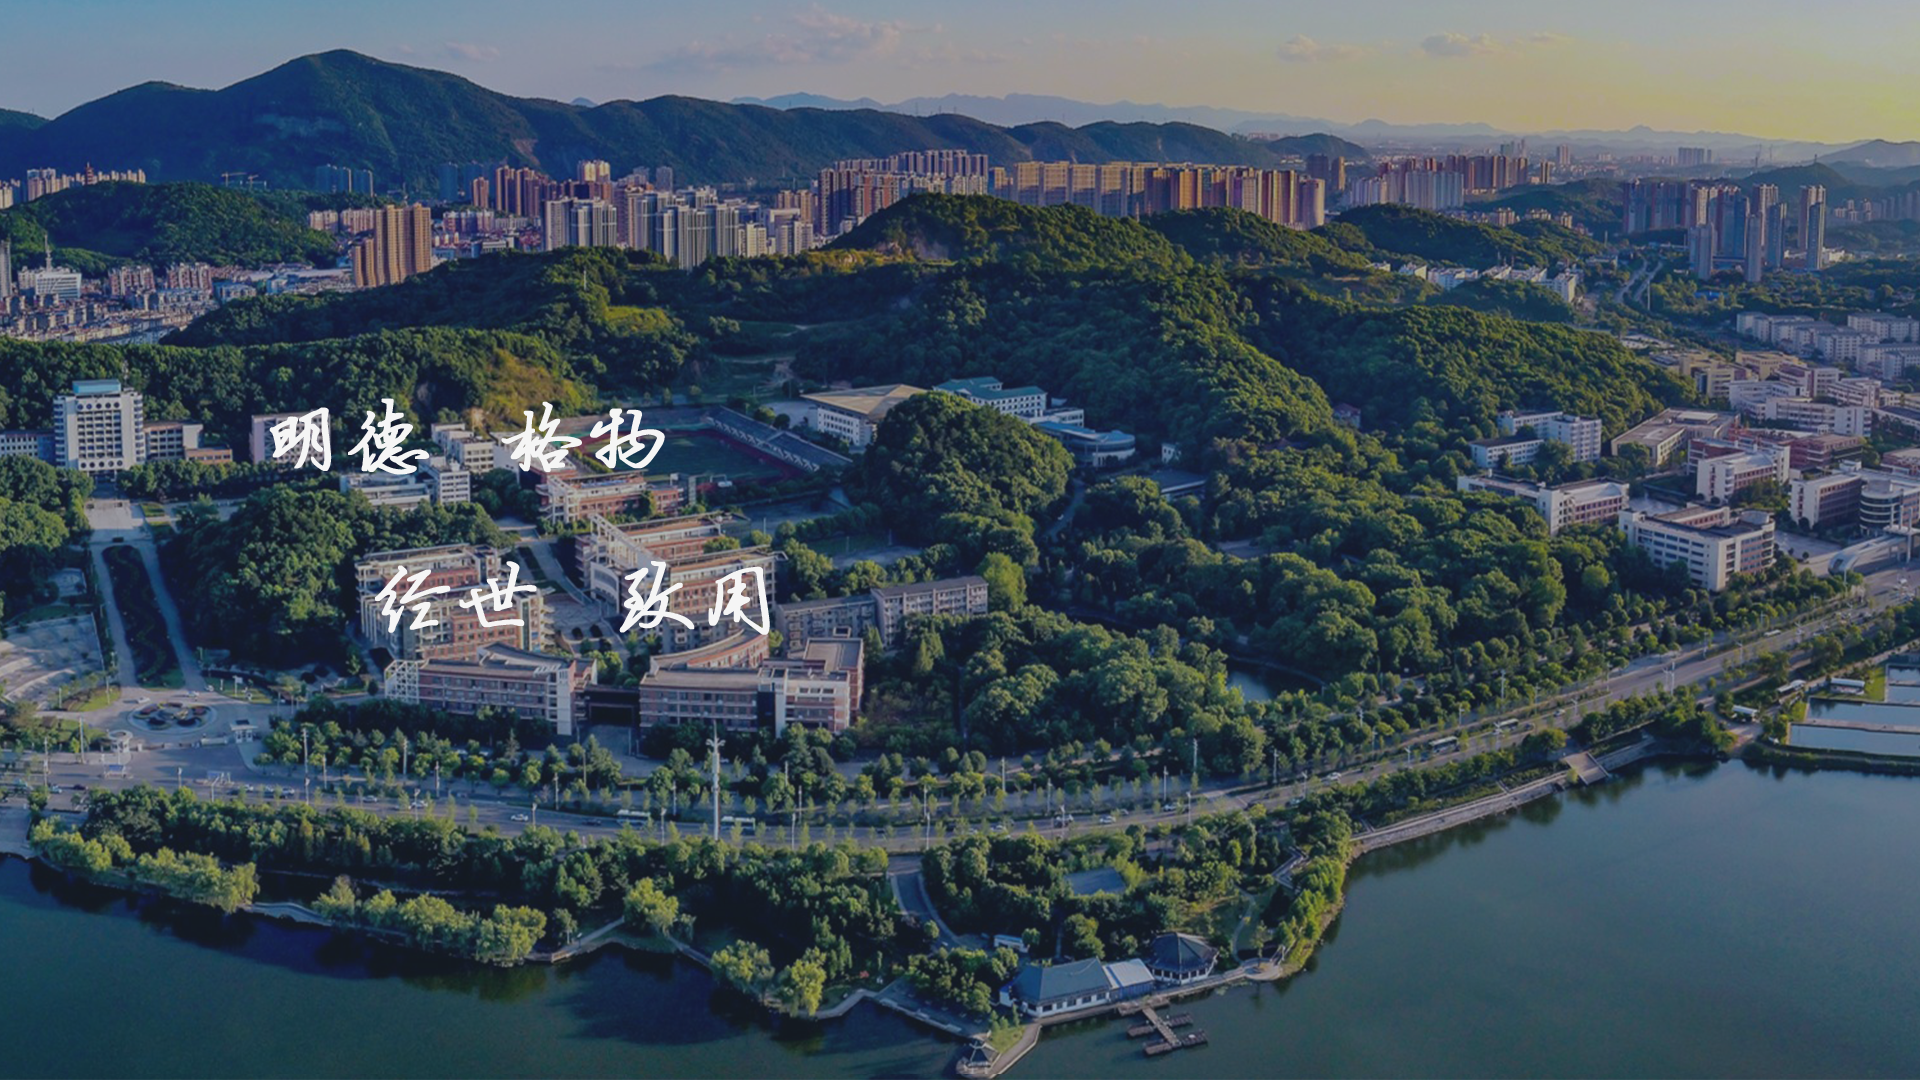
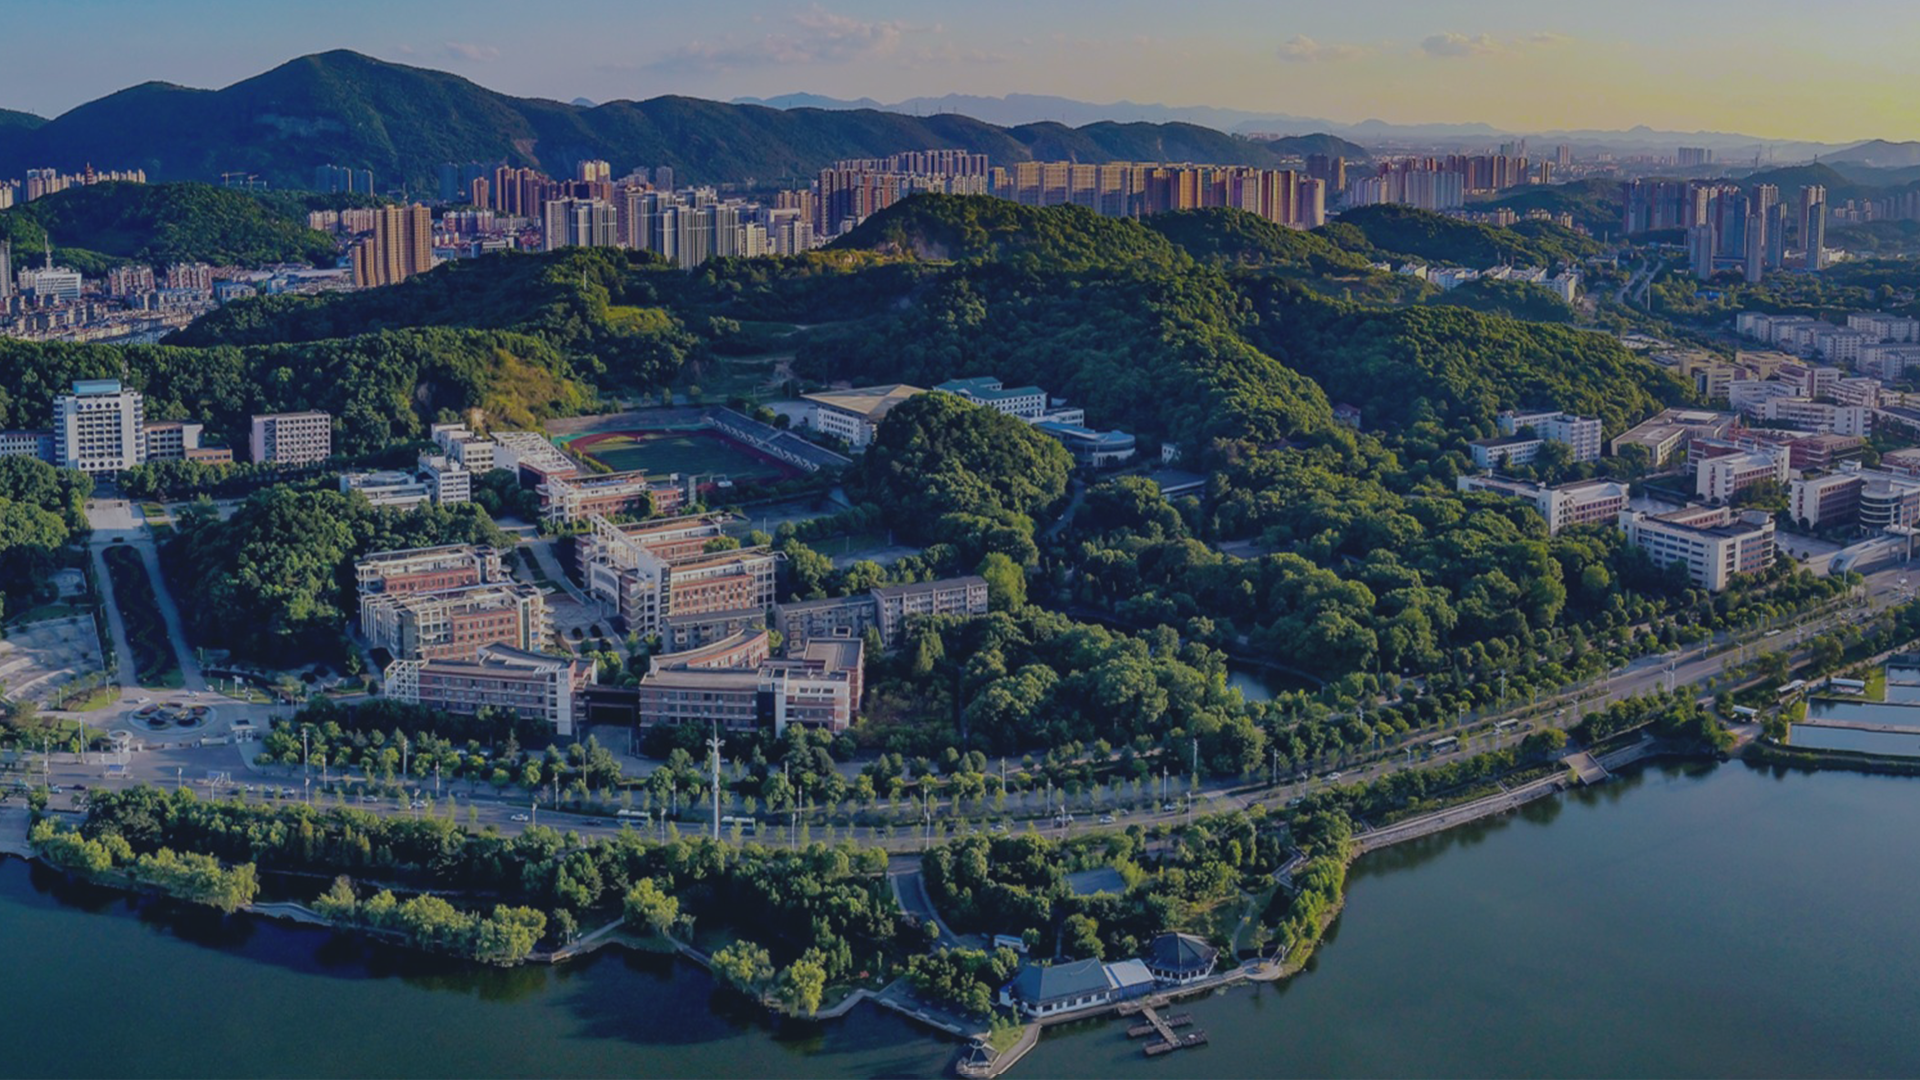
修改登陆页面样式

diff --git a/src/views/Login.vue b/src/views/Login.vue
@@ -1,9 +1,11 @@
 <template>
   <div class="page-container">
+    <div class="logo"></div>
+    <div class="motto"></div>
     <el-card class="login-card">
       <el-form class="login-form">
         <div class="title-container">
-          <h3>专升本报名管理信息系统</h3>
+          <h3>专升本报名系统</h3>
         </div>
         <el-form-item>
           <el-input
@@ -23,18 +25,26 @@
         <el-form-item>
           <el-select
             v-model="user.role"
-            placeholder="请选择"
+            placeholder="请选择角色"
             @change="handleSwitch"
+            style="width: 100%;"
           >
             <el-option label="学生" value="student"></el-option>
             <el-option label="管理员" value="admin"></el-option>
           </el-select>
         </el-form-item>
         <el-form-item>
-          <el-button type="primary" @click="handleLogin">登录</el-button>
-          <el-button @click="() => this.$router.push('/signup')"
-            >注册</el-button
+          <el-button type="primary" @click="handleLogin" class="btn-login"
+            >登录</el-button
           >
+          <!-- <el-button @click="() => this.$router.push('/signup')"
+            >注册</el-button
+          >-->
+        </el-form-item>
+        <el-form-item>
+          <router-link to="/signup" v-slot="{ href }">
+            <span class="signup">没有账号?<a :href="href">点我注册</a></span>
+          </router-link>
         </el-form-item>
       </el-form>
     </el-card>
@@ -98,20 +108,53 @@ export default {
   height: 100vh;
   min-width: 100%;
   min-height: 100%;
-  background-color: #000033;
-  padding: 160px 0 0 0;
-  box-sizing: border-box;
-}
-.login-card {
-  position: relative;
-  width: 520px;
-  margin: 0 auto;
+  background: url(../assets/login-bg.png);
+  padding: 50px 0 0 50px;
   box-sizing: border-box;
 
-  .login-form {
-    .title-container {
-      margin: 0 0 40px 0;
-      text-align: center;
+  .logo {
+    width: 400px;
+    height: 100px;
+    background: url(../assets/logo-college.png) no-repeat;
+  }
+
+  .motto {
+    float: left;
+    width: 300px;
+    height: 300px;
+    background: url(../assets/motto.png) no-repeat;
+    background-size: contain;
+    transform: scale(2.5) translate(50%, 30%);
+  }
+
+  .login-card {
+    float: right;
+    transform: translate(-60%, 30%);
+    position: relative;
+    width: 520px;
+    // margin: 0 auto;
+    box-sizing: border-box;
+
+    .login-form {
+      .title-container {
+        margin: 0 0 40px 0;
+        text-align: center;
+      }
+
+      .btn-login {
+        display: block;
+        width: 100%;
+        background-color: #304156;
+        border: none;
+      }
+
+      .signup {
+        float: right;
+        color: #afb5bd;
+        a {
+          color: #9399a2;
+        }
+      }
     }
   }
 }

diff --git a/src/views/Signup.vue b/src/views/Signup.vue
@@ -1,9 +1,11 @@
 <template>
   <div class="page-container">
+    <div class="logo"></div>
+    <div class="motto"></div>
     <el-card class="login-card">
       <el-form ref="signin" class="login-form" :model="user" :rules="rules">
         <div class="title-container">
-          <h3>专升本报名管理信息系统 注册页面</h3>
+          <h3>欢迎注册</h3>
         </div>
         <el-form-item required prop="sphone">
           <el-input
@@ -29,8 +31,14 @@
           />
         </el-form-item>
         <el-form-item>
-          <el-button type="primary" @click="handleSignUp">注册</el-button>
-          <el-button @click="() => this.$router.push('/login')">取消</el-button>
+          <el-button type="primary" @click="handleSignUp" class="btn-signup"
+            >注册</el-button
+          >
+        </el-form-item>
+        <el-form-item>
+          <router-link to="/login" v-slot="{ href }">
+            <span class="login">已有账号?<a :href="href">点我登录</a></span>
+          </router-link>
         </el-form-item>
       </el-form>
     </el-card>
@@ -109,20 +117,53 @@ export default {
   height: 100vh;
   min-width: 100%;
   min-height: 100%;
-  background-color: #000033;
-  padding: 160px 0 0 0;
-  box-sizing: border-box;
-}
-.login-card {
-  position: relative;
-  width: 520px;
-  margin: 0 auto;
+  background: url(../assets/login-bg.png);
+  padding: 50px 0 0 50px;
   box-sizing: border-box;
 
-  .login-form {
-    .title-container {
-      margin: 0 0 40px 0;
-      text-align: center;
+  .logo {
+    width: 400px;
+    height: 100px;
+    background: url(../assets/logo-college.png) no-repeat;
+  }
+
+  .motto {
+    float: left;
+    width: 300px;
+    height: 300px;
+    background: url(../assets/motto.png) no-repeat;
+    background-size: contain;
+    transform: scale(2.5) translate(50%, 30%);
+  }
+
+  .login-card {
+    float: right;
+    transform: translate(-60%, 30%);
+    position: relative;
+    width: 520px;
+    margin: 0 auto;
+    box-sizing: border-box;
+
+    .login-form {
+      .title-container {
+        margin: 0 0 40px 0;
+        text-align: center;
+      }
+
+      .btn-signup {
+        display: block;
+        width: 100%;
+        background-color: #304156;
+        border: none;
+      }
+
+      .login {
+        float: right;
+        color: #afb5bd;
+        a {
+          color: #9399a2;
+        }
+      }
     }
   }
 }

diff --git a/src/settings.js b/src/settings.js
@@ -1,5 +1,5 @@
 module.exports = {
-  title: 'Registration System',
+  title: '专升本报名系统',
 
   /**
    * @type {boolean} true | false
